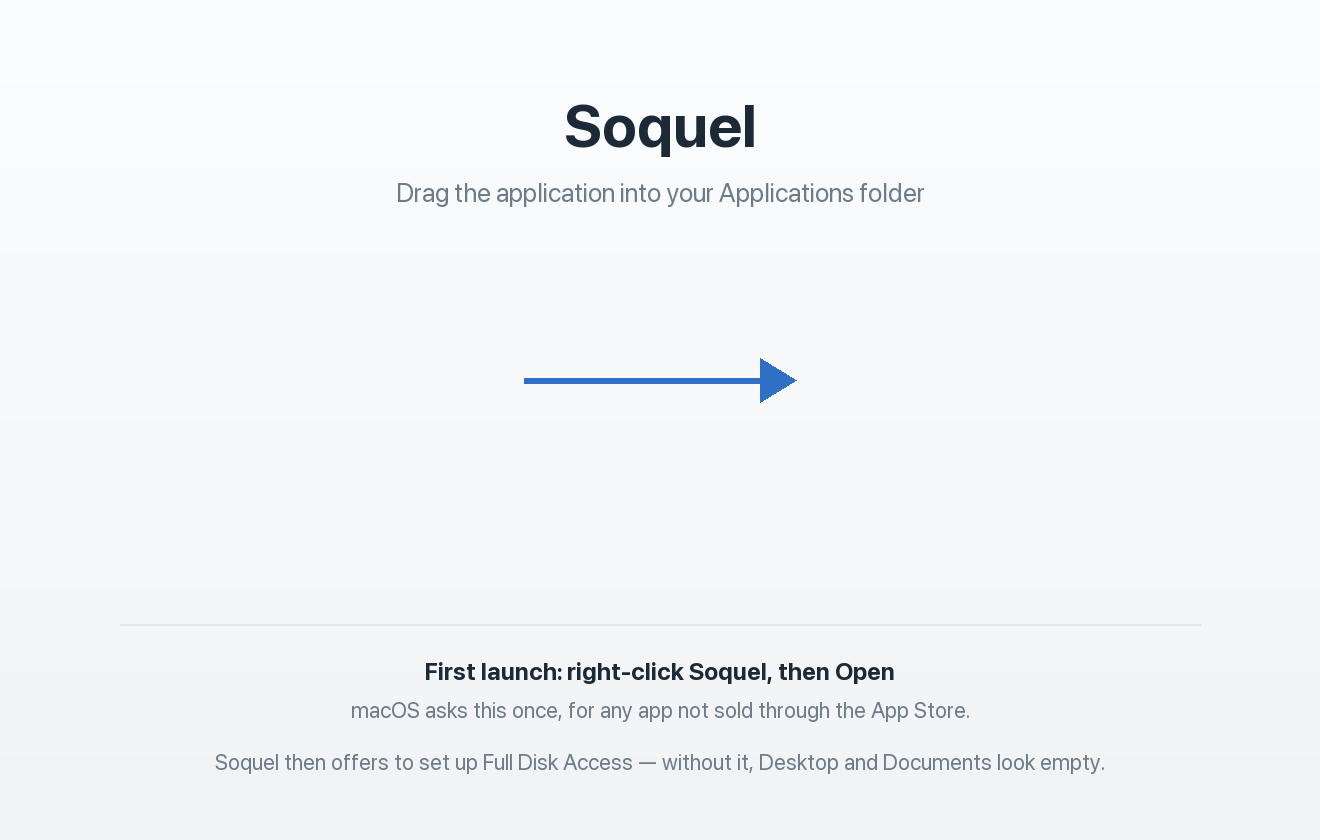
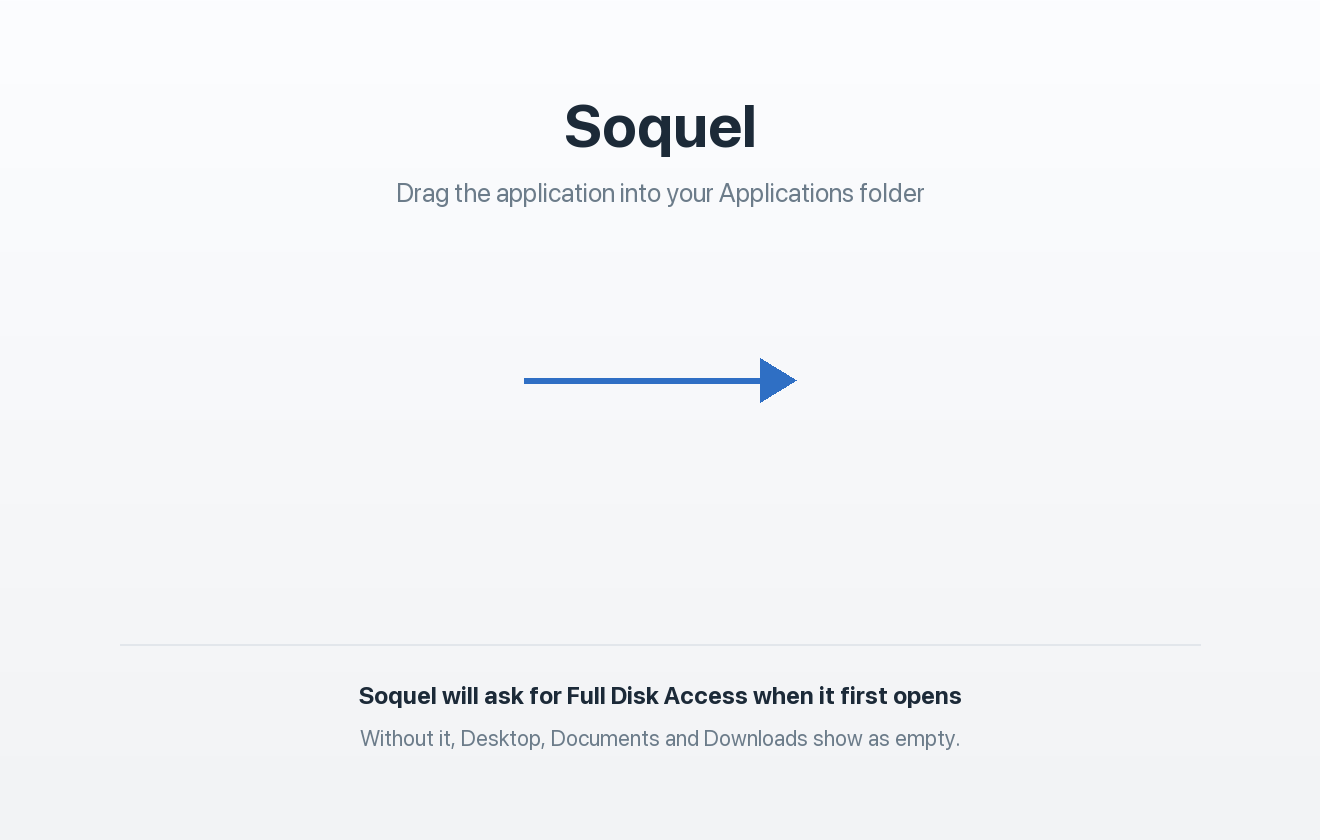
Notarise the release, and stop telling people to right-click
The disk image is submitted to Apple and the ticket stapled into it, so
a first launch needs neither a right-click nor a network connection. The
instruction to right-click comes off the image background, the site and
the README, and the question it answered is replaced by what is now
true.

Two bugs in notarise.sh, both of which claimed the application was
unsigned when it was not. `codesign -dv` prints no Authority lines at
all — that needs -dvv. And `codesign | grep -q` under `set -o pipefail`
reports failure precisely when it succeeds: grep exits at the first
match, codesign takes SIGPIPE, and pipefail returns that. The output is
read into a variable and matched with a case instead.

Changed region(s): [[0.1553, 0.7738, 0.8386, 0.9286]]

diff --git a/site/index.html b/site/index.html
@@ -143,8 +143,7 @@ footer a { color: var(--faint); }
        href="https://github.com/AbhinavMir/soquel/releases/download/v1.0.1/Soquel-1.0.1.dmg">Download for macOS</a>
     <a class="button quiet" href="https://github.com/AbhinavMir/soquel">Source</a>
   </div>
-  <p class="note">Version 1.0.1 · Free and MIT licensed · Apple silicon and Intel · macOS 13 or later<br>
-     <a class="plain" href="#faq">First launch needs a right-click, then Open — why</a></p>
+  <p class="note">Version 1.0.1 · Free and MIT licensed · Apple silicon and Intel · macOS 13 or later</p>
 
 </header>
 
@@ -295,11 +294,10 @@ footer a { color: var(--faint); }
 
 <h2 id="faq">Questions</h2>
 <dl>
-  <dt>macOS says it cannot check Soquel for malicious software.</dt>
-  <dd>Right-click the application and choose Open, then Open again. macOS asks
-      that once for anything not sold through the App Store. The application is
-      signed with an Apple Developer ID; it is not yet notarised, which is the
-      extra step that removes the prompt.</dd>
+  <dt>Is it safe to open? It is not from the App Store.</dt>
+  <dd>It is signed with an Apple Developer ID and notarised by Apple, so it
+      opens with a normal double-click and no warning. Notarising means Apple
+      has scanned the build; it does not mean Apple endorses it.</dd>
 
   <dt>Desktop, Documents and Downloads look empty.</dt>
   <dd>Those folders are protected by macOS and need Full Disk Access. Soquel

diff --git a/scripts/make-dmg-background.py b/scripts/make-dmg-background.py
@@ -63,17 +63,15 @@ d.polygon([(x1, y), (x1 - 18 * S, y - 11 * S), (x1 - 18 * S, y + 11 * S)], fill=
 # No labels under the icons: Finder draws those itself, and a second set
 # underneath them reads as a mistake.
 
-# The two things that make a first run look broken when nobody warns you:
-# an unnotarised build is refused once, and a file manager without Full Disk
-# Access shows Desktop and Documents as empty. Both are said here, and again
-# in the window the application opens on its first launch.
-d.line([(60 * S, 312 * S), ((W - 60) * S, 312 * S)], fill=(226, 230, 235), width=S)
+# Notarised, so there is no Gatekeeper prompt to warn about. The one thing
+# left that makes a first run look broken is protected folders reading as
+# empty, and the application says that itself on first launch too.
+d.line([(60 * S, 322 * S), ((W - 60) * S, 322 * S)], fill=(226, 230, 235), width=S)
 
-centred(d, "First launch: right-click Soquel, then Open", 328, font(12, bold=True), INK)
-centred(d, "macOS asks this once, for any app not sold through the App Store.",
-        348, font(11), MUTED)
-centred(d, "Soquel then offers to set up Full Disk Access — without it, "
-           "Desktop and Documents look empty.", 374, font(11), MUTED)
+centred(d, "Soquel will ask for Full Disk Access when it first opens", 340,
+        font(12, bold=True), INK)
+centred(d, "Without it, Desktop, Documents and Downloads show as empty.",
+        362, font(11), MUTED)
 
 img.resize((W, H), Image.LANCZOS).save("Support/dmg/background.png")
 img.save("Support/dmg/background@2x.png")

diff --git a/README.md b/README.md
@@ -16,7 +16,7 @@ Questions or bugs: atg271@gmail.com
 Download `Soquel.dmg` from [Releases](https://github.com/AbhinavMir/soquel/releases), open it, drag
 Soquel to Applications. macOS 13 or later.
 
-It is not signed by Apple, so the first launch needs a right-click, then Open.
+Signed and notarised, so it opens with a normal double-click.
 
 From source:
 
@@ -100,8 +100,8 @@ The code is in the `SoquelCore` library rather than in the executable so that it
 ## Known gaps
 
 Bugs and missing pieces are tracked as
-[issues](https://github.com/AbhinavMir/soquel/issues). The app is not signed or notarised, there is
-no accessibility pass yet, and SFTP would need a File Provider extension that has not been written.
+[issues](https://github.com/AbhinavMir/soquel/issues). There is no accessibility pass yet, and SFTP
+would need a File Provider extension that has not been written.
 
 Soquel does not replace Finder at the system level, and cannot — macOS reserves that. It can be made
 the handler for folders, which covers most of it.
